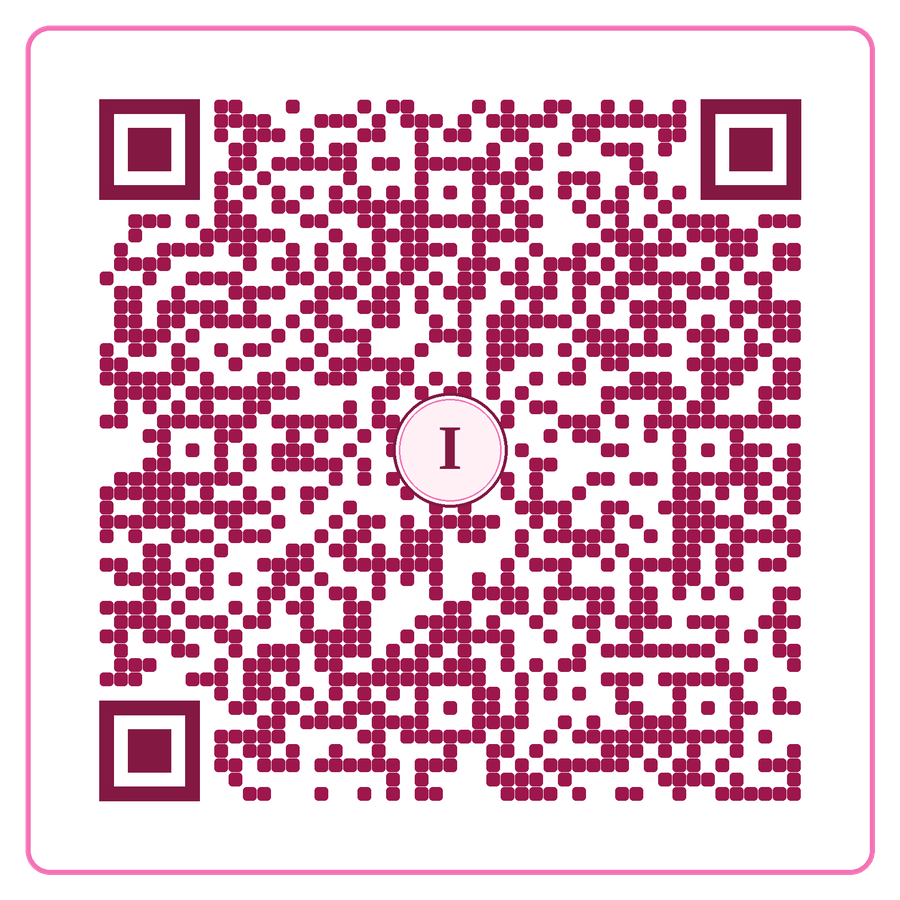
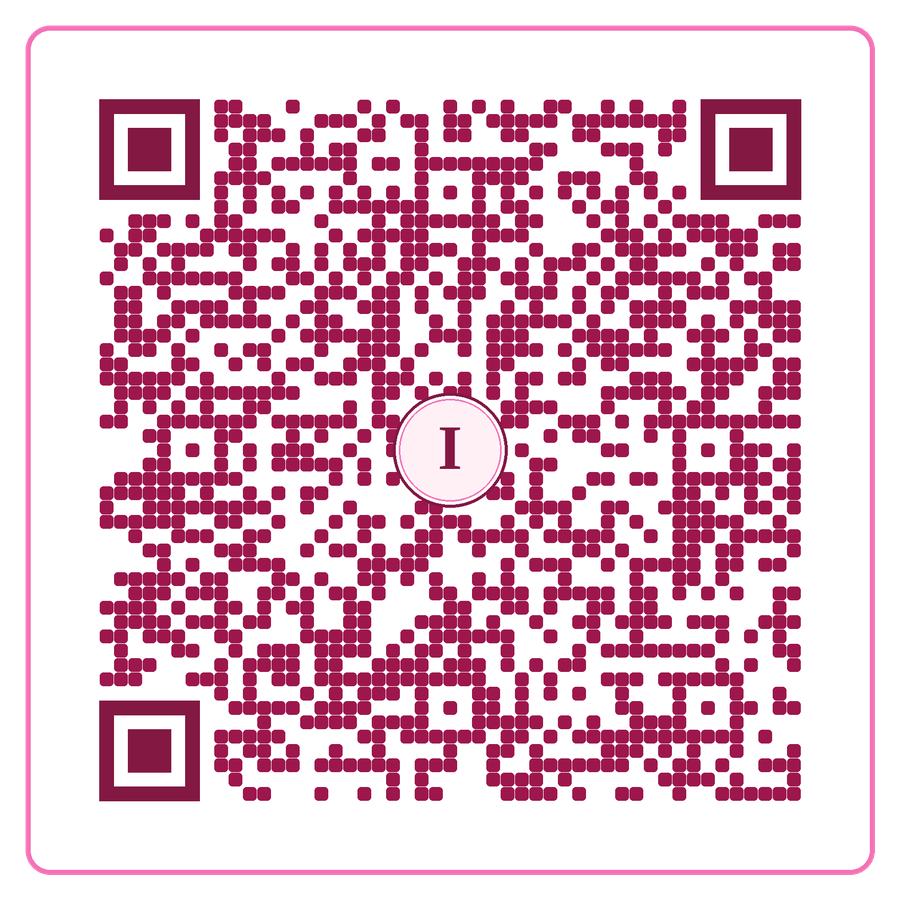
Replace all Nazira names with Ifa and update barcode link to v3

diff --git a/404.html b/404.html
@@ -4,15 +4,15 @@
   <meta charset="utf-8">
   <meta name="viewport" content="width=device-width, initial-scale=1, viewport-fit=cover">
   <meta name="theme-color" content="#b20c68">
-  <meta name="description" content="A little pink surprise for Nazira Nadia Putri.">
-  <meta property="og:title" content="A Surprise for Nazira">
+  <meta name="description" content="A little pink surprise for Ifa.">
+  <meta property="og:title" content="A Surprise for Ifa">
   <meta property="og:description" content="Tap to open a small collection of moments, music, and wishes.">
   <meta property="og:type" content="website">
-  <title>A Surprise for Nazira</title>
+  <title>A Surprise for Ifa</title>
   <meta http-equiv="Cache-Control" content="no-cache, no-store, must-revalidate">
   <meta http-equiv="Pragma" content="no-cache">
   <meta http-equiv="Expires" content="0">
-  <link rel="stylesheet" href="./styles.css?v=2">
+  <link rel="stylesheet" href="./styles.css?v=3">
 </head>
 <body>
   <div class="ambient" aria-hidden="true">
@@ -25,16 +25,16 @@
   <main id="app">
     <section class="page page-intro is-active" data-page="intro" aria-labelledby="intro-title">
       <div class="intro-collage" aria-hidden="true">
-        <figure class="mini-photo mini-a"><img src="./assets/photos/ifa-01.jpeg?v=2" alt="Nazira lovely portrait"></figure>
-        <figure class="mini-photo mini-b"><img src="./assets/photos/ifa-06.jpeg?v=2" alt="Nazira smiling collage"></figure>
-        <figure class="mini-photo mini-c"><img src="./assets/photos/ifa-05.jpeg?v=2" alt="Nazira portrait"></figure>
+        <figure class="mini-photo mini-a"><img src="./assets/photos/ifa-01.jpeg?v=3" alt="Ifa lovely portrait"></figure>
+        <figure class="mini-photo mini-b"><img src="./assets/photos/ifa-06.jpeg?v=3" alt="Ifa smiling collage"></figure>
+        <figure class="mini-photo mini-c"><img src="./assets/photos/ifa-05.jpeg?v=3" alt="Ifa portrait"></figure>
         <span class="rose rose-a">🌹</span><span class="rose rose-b">🌸</span>
         <span class="butterfly">❦</span>
       </div>
 
       <div class="envelope-stage">
         <p class="eyebrow">A little something for</p>
-        <h1 id="intro-title">Nazira Nadia Putri</h1>
+        <h1 id="intro-title">Ifa</h1>
         <div class="envelope" aria-hidden="true">
           <div class="envelope-back"></div>
           <div class="letter-preview">
@@ -42,7 +42,7 @@
             <small>for Ifa</small>
           </div>
           <div class="envelope-front"></div>
-          <div class="wax-seal">N</div>
+          <div class="wax-seal">I</div>
         </div>
         <button class="tap-button" type="button" data-open-surprise>
           <span>Tap for Surprise</span><i aria-hidden="true">↓</i>
@@ -81,14 +81,14 @@
       <button class="back-button" data-back type="button">← Back</button>
       <div class="detail-heading">
         <p class="eyebrow">Chapter by chapter</p>
-        <h2 id="journey-title">Nazira's Little Journey</h2>
+        <h2 id="journey-title">Ifa's Little Journey</h2>
         <p>Different days, different colors, still the same warm light.</p>
       </div>
       <div class="journey-track">
-        <article class="journey-item"><img src="./assets/photos/ifa-04.jpeg?v=2" alt="Nazira in uniform"><div><span>01</span><h3>Brave beginnings</h3><p>For every day you chose to show up and keep moving.</p></div></article>
-        <article class="journey-item"><img src="./assets/photos/ifa-03.jpeg?v=2" alt="Nazira at an evening café"><div><span>02</span><h3>Soft afternoons</h3><p>For the quiet moments that somehow become unforgettable.</p></div></article>
-        <article class="journey-item"><img src="./assets/photos/ifa-02.jpeg?v=2" alt="Nazira beneath city lights"><div><span>03</span><h3>Golden evenings</h3><p>For finding beauty in places that others may pass by.</p></div></article>
-        <article class="journey-item"><img src="./assets/photos/ifa-06.jpeg?v=2" alt="Nazira's joyful collage"><div><span>04</span><h3>Being yourself</h3><p>For the playful, honest side that makes every story yours.</p></div></article>
+        <article class="journey-item"><img src="./assets/photos/ifa-04.jpeg?v=3" alt="Ifa in uniform"><div><span>01</span><h3>Brave beginnings</h3><p>For every day you chose to show up and keep moving.</p></div></article>
+        <article class="journey-item"><img src="./assets/photos/ifa-03.jpeg?v=3" alt="Ifa at an evening café"><div><span>02</span><h3>Soft afternoons</h3><p>For the quiet moments that somehow become unforgettable.</p></div></article>
+        <article class="journey-item"><img src="./assets/photos/ifa-02.jpeg?v=3" alt="Ifa beneath city lights"><div><span>03</span><h3>Golden evenings</h3><p>For finding beauty in places that others may pass by.</p></div></article>
+        <article class="journey-item"><img src="./assets/photos/ifa-06.jpeg?v=3" alt="Ifa's joyful collage"><div><span>04</span><h3>Being yourself</h3><p>For the playful, honest side that makes every story yours.</p></div></article>
       </div>
     </section>
 
@@ -100,12 +100,12 @@
         <p>Tap a photograph to see it closer.</p>
       </div>
       <div class="polaroid-wall">
-        <button class="polaroid tilt-left" data-photo="./assets/photos/ifa-01.jpeg?v=2" type="button"><img src="./assets/photos/ifa-01.jpeg?v=2" alt="Portrait of Nazira"><span>flower bloom</span></button>
-        <button class="polaroid tilt-right" data-photo="./assets/photos/ifa-02.jpeg?v=2" type="button"><img src="./assets/photos/ifa-02.jpeg?v=2" alt="Nazira beneath city lights"><span>night glow</span></button>
-        <button class="polaroid tilt-left" data-photo="./assets/photos/ifa-03.jpeg?v=2" type="button"><img src="./assets/photos/ifa-03.jpeg?v=2" alt="Nazira at a café"><span>café pause</span></button>
-        <button class="polaroid tilt-right" data-photo="./assets/photos/ifa-04.jpeg?v=2" type="button"><img src="./assets/photos/ifa-04.jpeg?v=2" alt="Portrait of Nazira in uniform"><span>sweet spirit</span></button>
-        <button class="polaroid tilt-left" data-photo="./assets/photos/ifa-05.jpeg?v=2" type="button"><img src="./assets/photos/ifa-05.jpeg?v=2" alt="Close-up portrait of Nazira"><span>gentle gaze</span></button>
-        <button class="polaroid tilt-right" data-photo="./assets/photos/ifa-06.jpeg?v=2" type="button"><img src="./assets/photos/ifa-06.jpeg?v=2" alt="A collage of Nazira"><span>four smiles</span></button>
+        <button class="polaroid tilt-left" data-photo="./assets/photos/ifa-01.jpeg?v=3" type="button"><img src="./assets/photos/ifa-01.jpeg?v=3" alt="Portrait of Ifa"><span>flower bloom</span></button>
+        <button class="polaroid tilt-right" data-photo="./assets/photos/ifa-02.jpeg?v=3" type="button"><img src="./assets/photos/ifa-02.jpeg?v=3" alt="Ifa beneath city lights"><span>night glow</span></button>
+        <button class="polaroid tilt-left" data-photo="./assets/photos/ifa-03.jpeg?v=3" type="button"><img src="./assets/photos/ifa-03.jpeg?v=3" alt="Ifa at a café"><span>café pause</span></button>
+        <button class="polaroid tilt-right" data-photo="./assets/photos/ifa-04.jpeg?v=3" type="button"><img src="./assets/photos/ifa-04.jpeg?v=3" alt="Portrait of Ifa in uniform"><span>sweet spirit</span></button>
+        <button class="polaroid tilt-left" data-photo="./assets/photos/ifa-05.jpeg?v=3" type="button"><img src="./assets/photos/ifa-05.jpeg?v=3" alt="Close-up portrait of Ifa"><span>gentle gaze</span></button>
+        <button class="polaroid tilt-right" data-photo="./assets/photos/ifa-06.jpeg?v=3" type="button"><img src="./assets/photos/ifa-06.jpeg?v=3" alt="A collage of Ifa"><span>four smiles</span></button>
       </div>
     </section>
 
@@ -124,8 +124,8 @@
         </div>
         <div class="playlist-decor" aria-hidden="true">
           <div class="large-record"><i></i></div>
-          <div class="photo-frame frame-one"><img src="./assets/photos/ifa-01.jpeg?v=2" alt=""></div>
-          <div class="photo-frame frame-two"><img src="./assets/photos/ifa-06.jpeg?v=2" alt=""></div>
+          <div class="photo-frame frame-one"><img src="./assets/photos/ifa-01.jpeg?v=3" alt=""></div>
+          <div class="photo-frame frame-two"><img src="./assets/photos/ifa-06.jpeg?v=3" alt=""></div>
           <div class="neon-notes">♫ ♪ ♫</div>
         </div>
       </div>
@@ -146,7 +146,7 @@
           <p>May the days ahead bring you countless wonderful stories, exciting new opportunities, and happiness that comes naturally without ever having to force it.</p>
           <p class="letter-close">Always here for you, Ifa.<br><strong>Keep shining in your own beautiful way. ♡</strong></p>
         </article>
-        <div class="portrait-frame"><img src="./assets/photos/ifa-05.jpeg?v=2" alt="Ifa"></div>
+        <div class="portrait-frame"><img src="./assets/photos/ifa-05.jpeg?v=3" alt="Ifa"></div>
       </div>
     </section>
   </main>
@@ -159,11 +159,11 @@
 
   <dialog class="lightbox" aria-label="Photo preview">
     <button class="lightbox-close" type="button" aria-label="Close photo">×</button>
-    <img src="./assets/photos/ifa-05.jpeg?v=2" alt="Selected memory of Nazira">
+    <img src="./assets/photos/ifa-05.jpeg?v=3" alt="Selected memory of Ifa">
   </dialog>
 
   <div class="confetti-layer" aria-hidden="true"></div>
 
-  <script src="./app.js?v=2"></script>
+  <script src="./app.js?v=3"></script>
 </body>
 </html>

diff --git a/index.html b/index.html
@@ -4,15 +4,15 @@
   <meta charset="utf-8">
   <meta name="viewport" content="width=device-width, initial-scale=1, viewport-fit=cover">
   <meta name="theme-color" content="#b20c68">
-  <meta name="description" content="A little pink surprise for Nazira Nadia Putri.">
-  <meta property="og:title" content="A Surprise for Nazira">
+  <meta name="description" content="A little pink surprise for Ifa.">
+  <meta property="og:title" content="A Surprise for Ifa">
   <meta property="og:description" content="Tap to open a small collection of moments, music, and wishes.">
   <meta property="og:type" content="website">
-  <title>A Surprise for Nazira</title>
+  <title>A Surprise for Ifa</title>
   <meta http-equiv="Cache-Control" content="no-cache, no-store, must-revalidate">
   <meta http-equiv="Pragma" content="no-cache">
   <meta http-equiv="Expires" content="0">
-  <link rel="stylesheet" href="./styles.css?v=2">
+  <link rel="stylesheet" href="./styles.css?v=3">
 </head>
 <body>
   <div class="ambient" aria-hidden="true">
@@ -25,16 +25,16 @@
   <main id="app">
     <section class="page page-intro is-active" data-page="intro" aria-labelledby="intro-title">
       <div class="intro-collage" aria-hidden="true">
-        <figure class="mini-photo mini-a"><img src="./assets/photos/ifa-01.jpeg?v=2" alt="Nazira lovely portrait"></figure>
-        <figure class="mini-photo mini-b"><img src="./assets/photos/ifa-06.jpeg?v=2" alt="Nazira smiling collage"></figure>
-        <figure class="mini-photo mini-c"><img src="./assets/photos/ifa-05.jpeg?v=2" alt="Nazira portrait"></figure>
+        <figure class="mini-photo mini-a"><img src="./assets/photos/ifa-01.jpeg?v=3" alt="Ifa lovely portrait"></figure>
+        <figure class="mini-photo mini-b"><img src="./assets/photos/ifa-06.jpeg?v=3" alt="Ifa smiling collage"></figure>
+        <figure class="mini-photo mini-c"><img src="./assets/photos/ifa-05.jpeg?v=3" alt="Ifa portrait"></figure>
         <span class="rose rose-a">🌹</span><span class="rose rose-b">🌸</span>
         <span class="butterfly">❦</span>
       </div>
 
       <div class="envelope-stage">
         <p class="eyebrow">A little something for</p>
-        <h1 id="intro-title">Nazira Nadia Putri</h1>
+        <h1 id="intro-title">Ifa</h1>
         <div class="envelope" aria-hidden="true">
           <div class="envelope-back"></div>
           <div class="letter-preview">
@@ -42,7 +42,7 @@
             <small>for Ifa</small>
           </div>
           <div class="envelope-front"></div>
-          <div class="wax-seal">N</div>
+          <div class="wax-seal">I</div>
         </div>
         <button class="tap-button" type="button" data-open-surprise>
           <span>Tap for Surprise</span><i aria-hidden="true">↓</i>
@@ -81,14 +81,14 @@
       <button class="back-button" data-back type="button">← Back</button>
       <div class="detail-heading">
         <p class="eyebrow">Chapter by chapter</p>
-        <h2 id="journey-title">Nazira's Little Journey</h2>
+        <h2 id="journey-title">Ifa's Little Journey</h2>
         <p>Different days, different colors, still the same warm light.</p>
       </div>
       <div class="journey-track">
-        <article class="journey-item"><img src="./assets/photos/ifa-04.jpeg?v=2" alt="Nazira in uniform"><div><span>01</span><h3>Brave beginnings</h3><p>For every day you chose to show up and keep moving.</p></div></article>
-        <article class="journey-item"><img src="./assets/photos/ifa-03.jpeg?v=2" alt="Nazira at an evening café"><div><span>02</span><h3>Soft afternoons</h3><p>For the quiet moments that somehow become unforgettable.</p></div></article>
-        <article class="journey-item"><img src="./assets/photos/ifa-02.jpeg?v=2" alt="Nazira beneath city lights"><div><span>03</span><h3>Golden evenings</h3><p>For finding beauty in places that others may pass by.</p></div></article>
-        <article class="journey-item"><img src="./assets/photos/ifa-06.jpeg?v=2" alt="Nazira's joyful collage"><div><span>04</span><h3>Being yourself</h3><p>For the playful, honest side that makes every story yours.</p></div></article>
+        <article class="journey-item"><img src="./assets/photos/ifa-04.jpeg?v=3" alt="Ifa in uniform"><div><span>01</span><h3>Brave beginnings</h3><p>For every day you chose to show up and keep moving.</p></div></article>
+        <article class="journey-item"><img src="./assets/photos/ifa-03.jpeg?v=3" alt="Ifa at an evening café"><div><span>02</span><h3>Soft afternoons</h3><p>For the quiet moments that somehow become unforgettable.</p></div></article>
+        <article class="journey-item"><img src="./assets/photos/ifa-02.jpeg?v=3" alt="Ifa beneath city lights"><div><span>03</span><h3>Golden evenings</h3><p>For finding beauty in places that others may pass by.</p></div></article>
+        <article class="journey-item"><img src="./assets/photos/ifa-06.jpeg?v=3" alt="Ifa's joyful collage"><div><span>04</span><h3>Being yourself</h3><p>For the playful, honest side that makes every story yours.</p></div></article>
       </div>
     </section>
 
@@ -100,12 +100,12 @@
         <p>Tap a photograph to see it closer.</p>
       </div>
       <div class="polaroid-wall">
-        <button class="polaroid tilt-left" data-photo="./assets/photos/ifa-01.jpeg?v=2" type="button"><img src="./assets/photos/ifa-01.jpeg?v=2" alt="Portrait of Nazira"><span>flower bloom</span></button>
-        <button class="polaroid tilt-right" data-photo="./assets/photos/ifa-02.jpeg?v=2" type="button"><img src="./assets/photos/ifa-02.jpeg?v=2" alt="Nazira beneath city lights"><span>night glow</span></button>
-        <button class="polaroid tilt-left" data-photo="./assets/photos/ifa-03.jpeg?v=2" type="button"><img src="./assets/photos/ifa-03.jpeg?v=2" alt="Nazira at a café"><span>café pause</span></button>
-        <button class="polaroid tilt-right" data-photo="./assets/photos/ifa-04.jpeg?v=2" type="button"><img src="./assets/photos/ifa-04.jpeg?v=2" alt="Portrait of Nazira in uniform"><span>sweet spirit</span></button>
-        <button class="polaroid tilt-left" data-photo="./assets/photos/ifa-05.jpeg?v=2" type="button"><img src="./assets/photos/ifa-05.jpeg?v=2" alt="Close-up portrait of Nazira"><span>gentle gaze</span></button>
-        <button class="polaroid tilt-right" data-photo="./assets/photos/ifa-06.jpeg?v=2" type="button"><img src="./assets/photos/ifa-06.jpeg?v=2" alt="A collage of Nazira"><span>four smiles</span></button>
+        <button class="polaroid tilt-left" data-photo="./assets/photos/ifa-01.jpeg?v=3" type="button"><img src="./assets/photos/ifa-01.jpeg?v=3" alt="Portrait of Ifa"><span>flower bloom</span></button>
+        <button class="polaroid tilt-right" data-photo="./assets/photos/ifa-02.jpeg?v=3" type="button"><img src="./assets/photos/ifa-02.jpeg?v=3" alt="Ifa beneath city lights"><span>night glow</span></button>
+        <button class="polaroid tilt-left" data-photo="./assets/photos/ifa-03.jpeg?v=3" type="button"><img src="./assets/photos/ifa-03.jpeg?v=3" alt="Ifa at a café"><span>café pause</span></button>
+        <button class="polaroid tilt-right" data-photo="./assets/photos/ifa-04.jpeg?v=3" type="button"><img src="./assets/photos/ifa-04.jpeg?v=3" alt="Portrait of Ifa in uniform"><span>sweet spirit</span></button>
+        <button class="polaroid tilt-left" data-photo="./assets/photos/ifa-05.jpeg?v=3" type="button"><img src="./assets/photos/ifa-05.jpeg?v=3" alt="Close-up portrait of Ifa"><span>gentle gaze</span></button>
+        <button class="polaroid tilt-right" data-photo="./assets/photos/ifa-06.jpeg?v=3" type="button"><img src="./assets/photos/ifa-06.jpeg?v=3" alt="A collage of Ifa"><span>four smiles</span></button>
       </div>
     </section>
 
@@ -124,8 +124,8 @@
         </div>
         <div class="playlist-decor" aria-hidden="true">
           <div class="large-record"><i></i></div>
-          <div class="photo-frame frame-one"><img src="./assets/photos/ifa-01.jpeg?v=2" alt=""></div>
-          <div class="photo-frame frame-two"><img src="./assets/photos/ifa-06.jpeg?v=2" alt=""></div>
+          <div class="photo-frame frame-one"><img src="./assets/photos/ifa-01.jpeg?v=3" alt=""></div>
+          <div class="photo-frame frame-two"><img src="./assets/photos/ifa-06.jpeg?v=3" alt=""></div>
           <div class="neon-notes">♫ ♪ ♫</div>
         </div>
       </div>
@@ -146,7 +146,7 @@
           <p>May the days ahead bring you countless wonderful stories, exciting new opportunities, and happiness that comes naturally without ever having to force it.</p>
           <p class="letter-close">Always here for you, Ifa.<br><strong>Keep shining in your own beautiful way. ♡</strong></p>
         </article>
-        <div class="portrait-frame"><img src="./assets/photos/ifa-05.jpeg?v=2" alt="Ifa"></div>
+        <div class="portrait-frame"><img src="./assets/photos/ifa-05.jpeg?v=3" alt="Ifa"></div>
       </div>
     </section>
   </main>
@@ -159,11 +159,11 @@
 
   <dialog class="lightbox" aria-label="Photo preview">
     <button class="lightbox-close" type="button" aria-label="Close photo">×</button>
-    <img src="./assets/photos/ifa-05.jpeg?v=2" alt="Selected memory of Nazira">
+    <img src="./assets/photos/ifa-05.jpeg?v=3" alt="Selected memory of Ifa">
   </dialog>
 
   <div class="confetti-layer" aria-hidden="true"></div>
 
-  <script src="./app.js?v=2"></script>
+  <script src="./app.js?v=3"></script>
 </body>
 </html>
